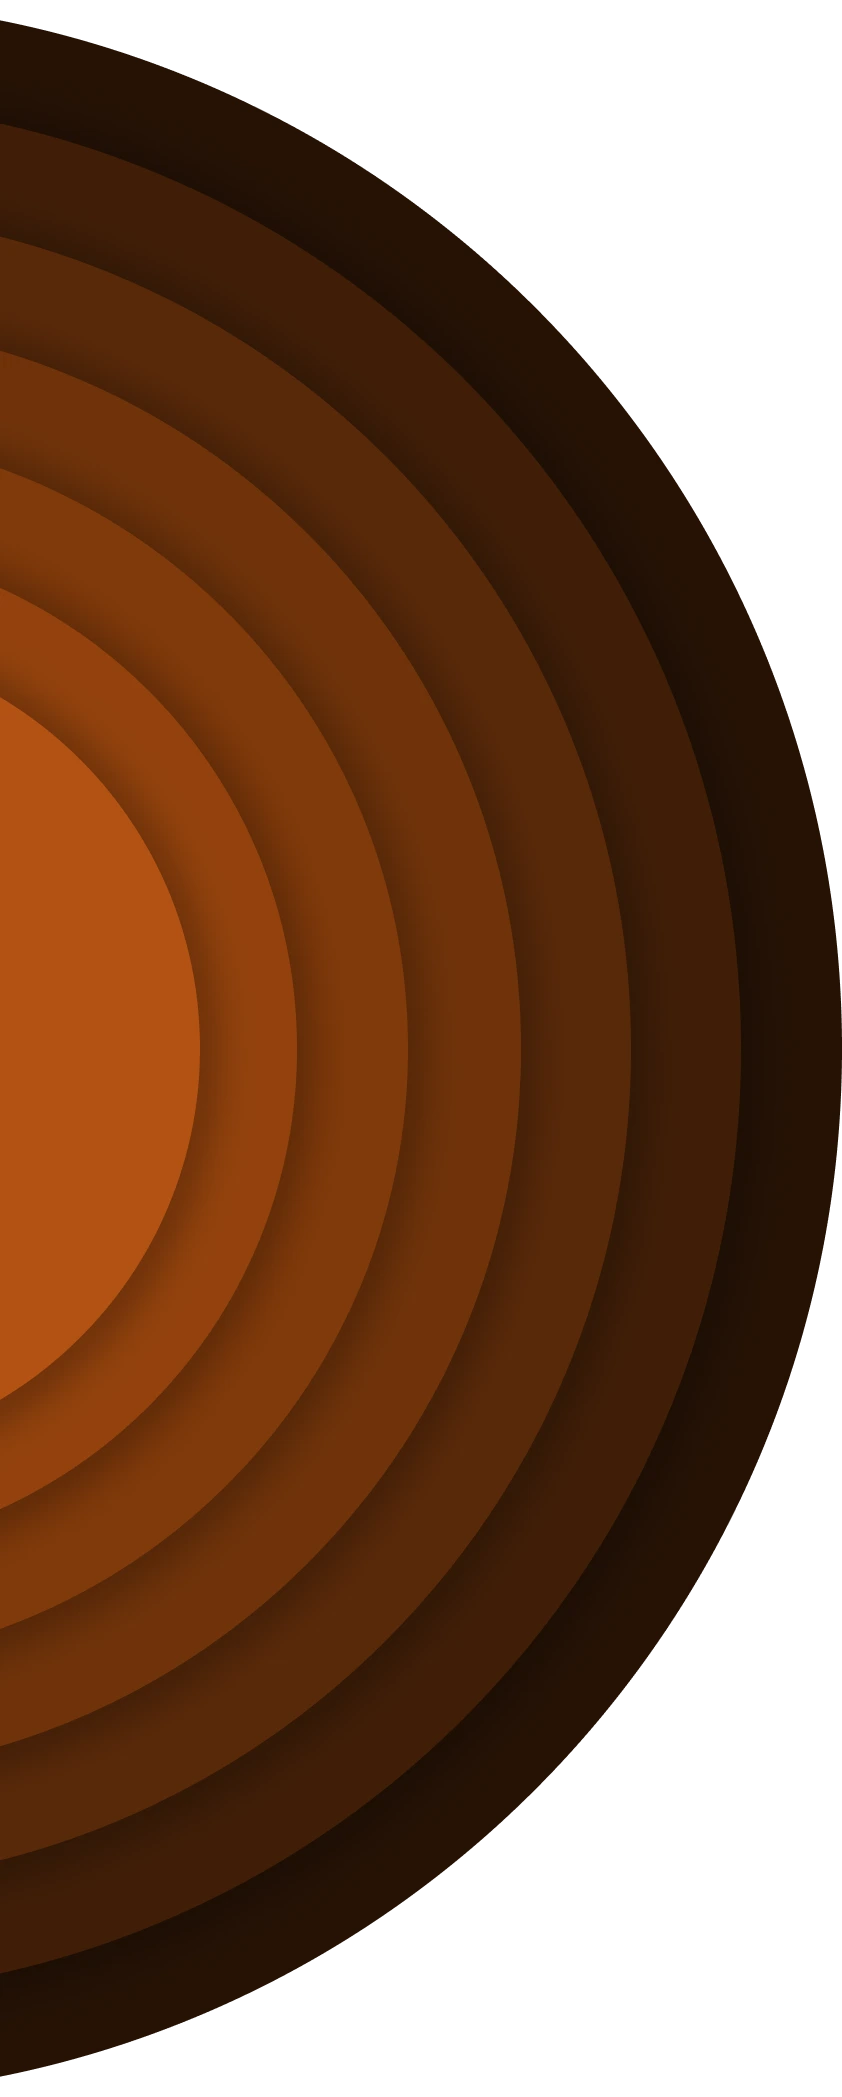
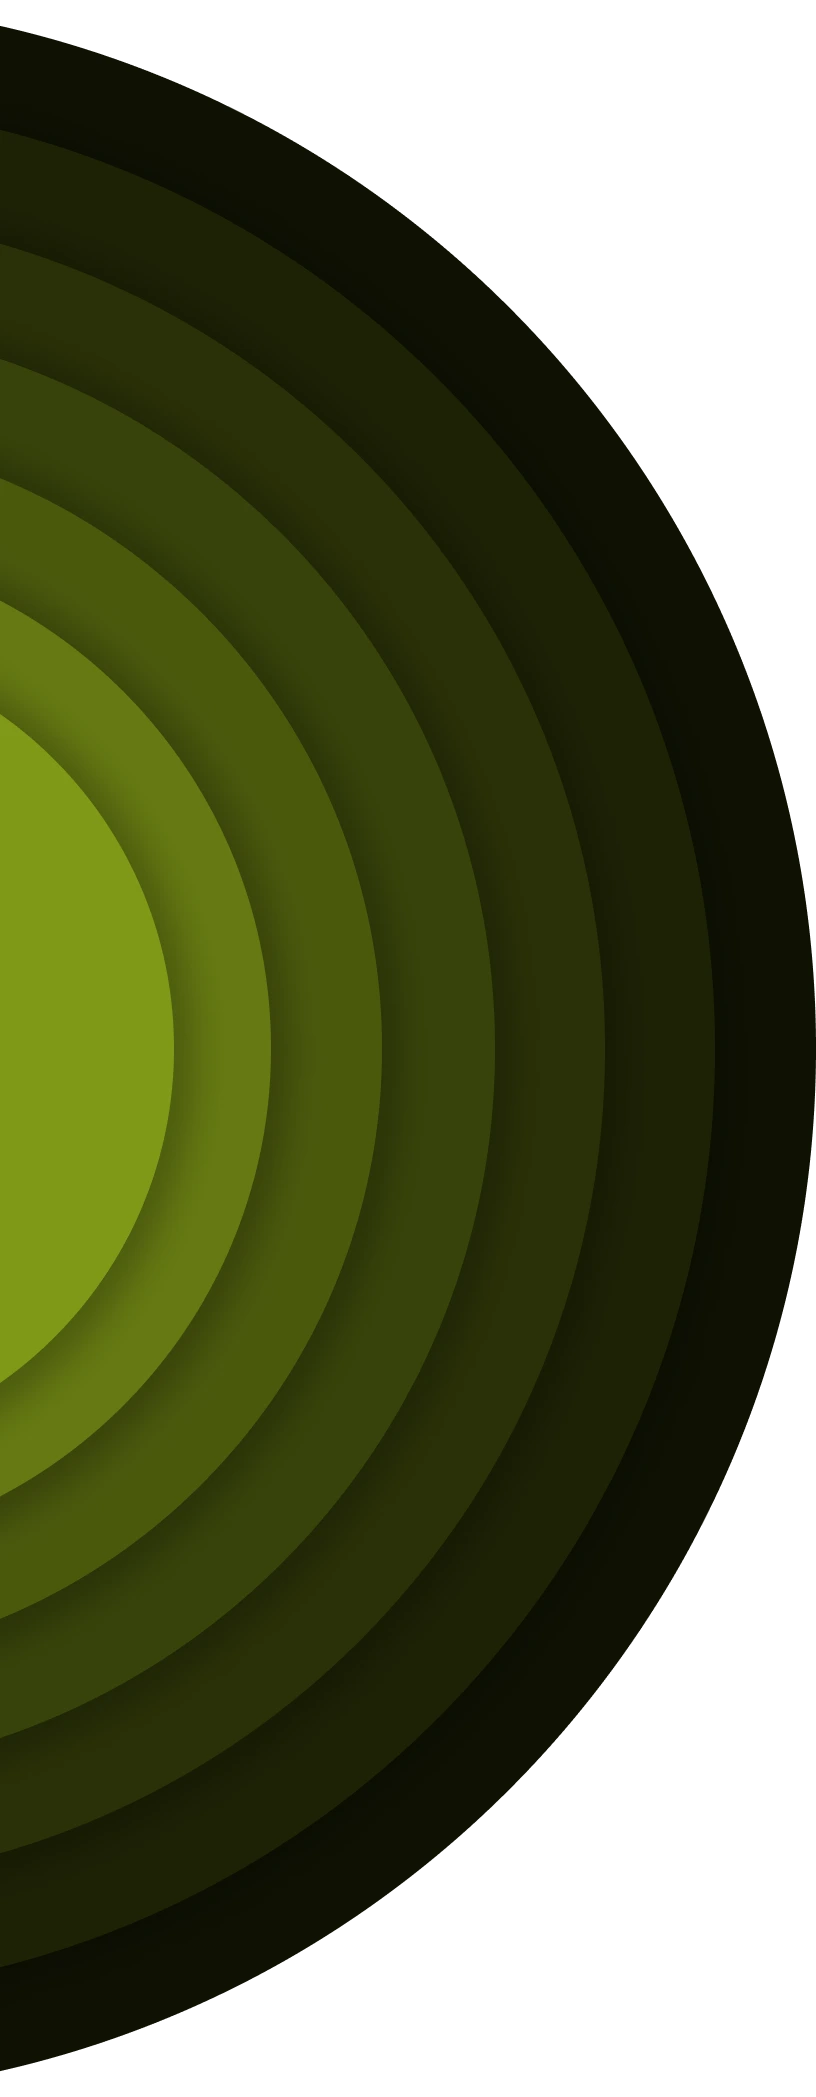
Changed orange pulses and pulses to green, changed header button sizes for mobile

diff --git a/src/components/ContactMe/ContactMe.jsx b/src/components/ContactMe/ContactMe.jsx
@@ -5,7 +5,7 @@ import './ContactMe.scss'
 
 const ContactMe = ({ showLargeOrSmall }) => {
 
-    const buttonClass = `contact-me__title-and-btn--mail-btn ${showLargeOrSmall === 'large' ? 'contact-me__orange-btn' : 'contact-me__blue-btn'}`
+    const buttonClass = `contact-me__title-and-btn--mail-btn ${showLargeOrSmall === 'large' ? 'main-btn-orange' : 'main-btn-blue'}`
 
     return (
         <section className="contact-me center-row">

diff --git a/src/App.scss b/src/App.scss
@@ -102,13 +102,13 @@ h1, h2, h3, h4, h5 {
 }
 
 .main-btn-orange {
-  background-color: #FFA166;
-  box-shadow: 1px 4px 1px #c46e39;
+  background-color: #7e9428;
+  box-shadow: 1px 4px 1px #5b6b1c;
 }
 
 .alternate-btn-orange {
-  background-color: #7F390D;
-  box-shadow: 1px 4px 1px #5c2503;
+  background-color: #475317;
+  box-shadow: 1px 4px 1px #2c330e;
   color: white;
 }
 

diff --git a/src/components/Header/Header.scss b/src/components/Header/Header.scss
@@ -61,6 +61,19 @@
         z-index: -1;
     }
 
+    @media only screen and (max-width: 400px) {
+        
+
+        &__intro {
+            width: 100%;
+            margin: 0;
+
+            & .btn {
+                width: 70%;
+            }
+        }
+    }
+
     @media only screen and (max-width: 600px) {
 
         align-items: center;
